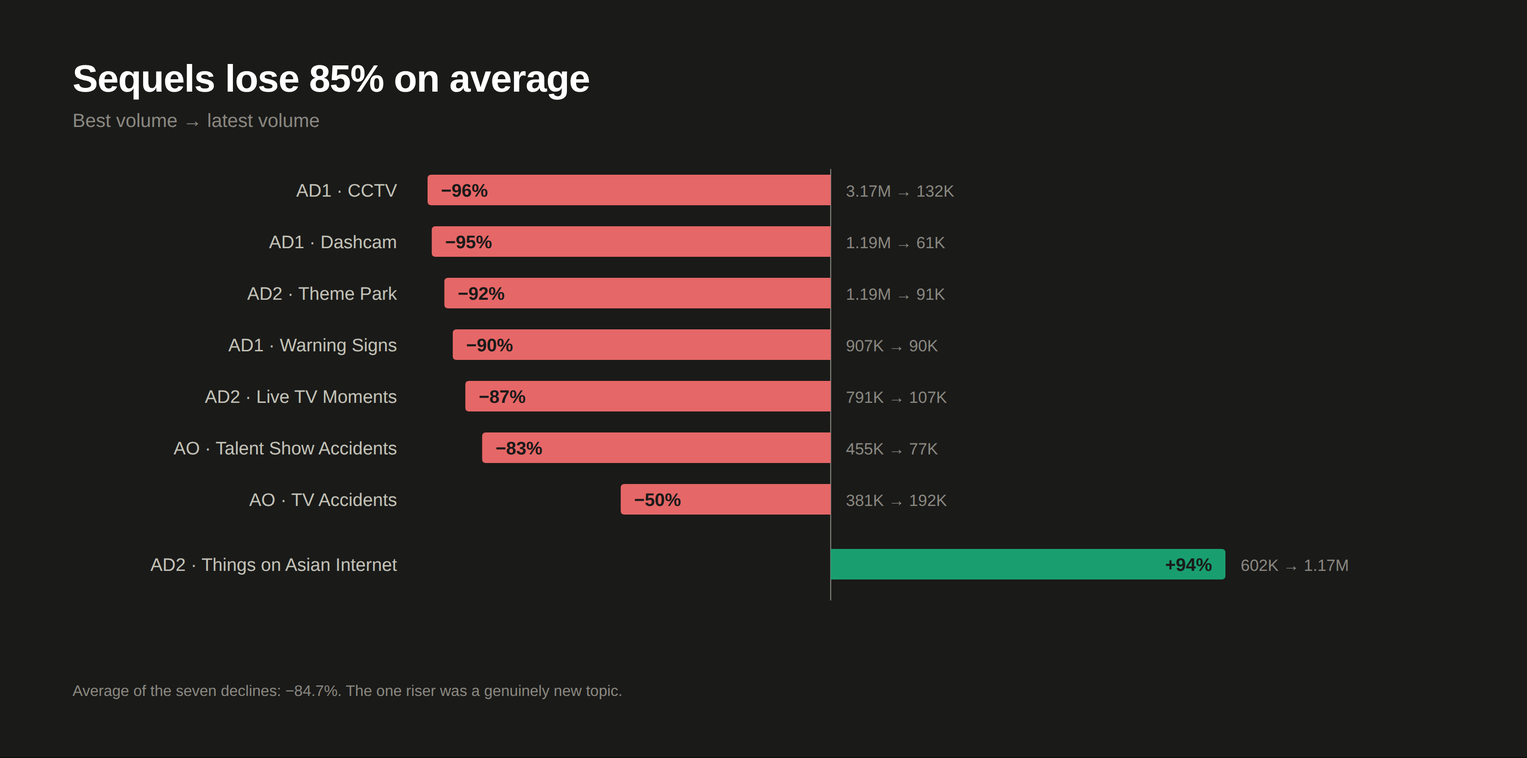
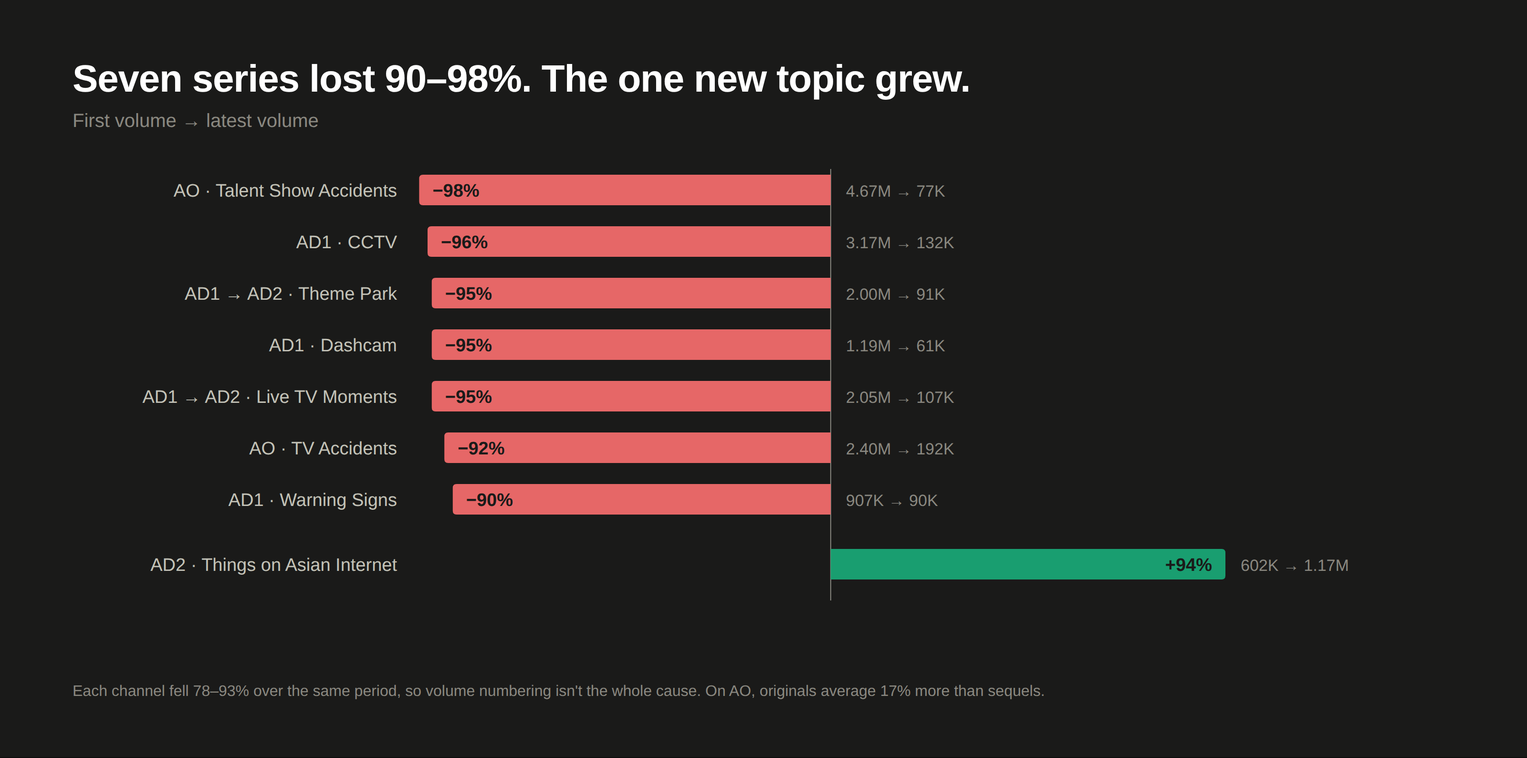
Final check: correct sequel decay, four case facts, two overclaims
Sequel decay was measured from Vol 2 for both AO series and from Vol 3
for the two AD2 series, while labelled "best volume". Measured from each
series' first volume, all seven fell 90-98%. Because that matches each
channel's own 78-93% fall, the script now presents it descriptively and
rests the volume-number recommendation on the new-topic exception
(+94%) and AO's 17% original premium.

Case facts: Paschel's convictions (aggravated kidnapping and domestic
assault, 18 years); McFarland's permit expired a year before his death,
not "the previous August"; Fiore was Jenkins's wife, not ex-wife; Rome
2018 charges include fraud but not manslaughter (no deaths).

Overclaims: India and Telegram are covered but not by million-view
videos; competitor channels average 2.6-3.2M, not "two to three
million"; softened three absolute statements.

The-ask chart no longer sets Abyssal's current per-video views against
competitors' channel averages. All corrections logged in section I of
fact-check-corrections.md.

Claude-Session: https://claude.ai/code/session_018EyFTS4bEJ4wZZDWFbNADY

diff --git a/visuals/_source.html b/visuals/_source.html
@@ -61,10 +61,10 @@ td.num{font-variant-numeric:tabular-nums}
 <div class="node" style="background:#3a2322;color:var(--red)">Fishing Encounters<small>65K VIEWS</small></div>
 </div></div>
 
-<div class="fig" id="sequel-decay"><h1>Sequels lose 85% on average</h1>
-<div class="sub">Best volume → latest volume</div>
+<div class="fig" id="sequel-decay"><h1>Seven series lost 90–98%. The one new topic grew.</h1>
+<div class="sub">First volume → latest volume</div>
 <div class="chart"><svg id="c-seq" width="1448" height="500"></svg></div>
-<div class="src">Average of the seven declines: −84.7%. The one riser was a genuinely new topic.</div></div>
+<div class="src">Each channel fell 78–93% over the same period, so volume numbering isn't the whole cause. On AO, originals average 17% more than sequels.</div></div>
 
 <div class="fig" id="the-eight-video-cliff"><h1>Seven uploads a month is the peak. Eight is the cliff.</h1>
 <div class="sub">2026, all three channels · average total views in a month, by uploads that month</div>
@@ -100,7 +100,7 @@ td.num{font-variant-numeric:tabular-nums}
 <tr><th style="width:5%">#</th><th style="width:47%">Change</th><th>Evidence</th></tr>
 <tr><td class="k">1</td><td class="k">Three-test filter at greenlight, in writing</td><td>All three recent flops fail it</td></tr>
 <tr><td class="k">2</td><td class="k">Cap at seven uploads per channel a month</td><td class="num">7 → 3.01M total · 8 → 1.09M</td></tr>
-<tr><td class="k">3</td><td class="k">Drop volume numbers, AD2 first</td><td>Sequels lose 85%</td></tr>
+<tr><td class="k">3</td><td class="k">Drop volume numbers, AD2 first</td><td>Only a new topic grew (+94%) · AO originals +17%</td></tr>
 <tr><td class="k">4</td><td class="k">Rotate three title frameworks</td><td>98% one formula · the exception did 407K</td></tr>
 <tr><td class="k" style="color:var(--aqua)">5</td><td class="k" style="color:var(--aqua)">End every segment on the document</td><td>The basis of all three pitches</td></tr>
 </table></div>
@@ -206,7 +206,7 @@ hbars('c-curio',[
 
 // sequels (diverging, one common scale)
 (function(){const svg=document.getElementById('c-seq'),LW=360,S=4.4,Z=LW+96*S+12,RH=54,BH=32;
- const d=[['AD1 · CCTV',-96,'3.17M → 132K'],['AD1 · Dashcam',-95,'1.19M → 61K'],['AD2 · Theme Park',-92,'1.19M → 91K'],['AD1 · Warning Signs',-90,'907K → 90K'],['AD2 · Live TV Moments',-87,'791K → 107K'],['AO · Talent Show Accidents',-83,'455K → 77K'],['AO · TV Accidents',-50,'381K → 192K'],['AD2 · Things on Asian Internet',94,'602K → 1.17M']];
+ const d=[['AO · Talent Show Accidents',-98,'4.67M → 77K'],['AD1 · CCTV',-96,'3.17M → 132K'],['AD1 → AD2 · Theme Park',-95,'2.00M → 91K'],['AD1 · Dashcam',-95,'1.19M → 61K'],['AD1 → AD2 · Live TV Moments',-95,'2.05M → 107K'],['AO · TV Accidents',-92,'2.40M → 192K'],['AD1 · Warning Signs',-90,'907K → 90K'],['AD2 · Things on Asian Internet',94,'602K → 1.17M']];
  svg.appendChild(el('line',{x1:Z,x2:Z,y1:-6,y2:d.length*RH+14,stroke:C.ink3}));
  d.forEach(([n,v,note],i)=>{const y=i*RH+(i===7?14:0),w=Math.abs(v)*S,lab=(v<0?'−':'+')+Math.abs(v)+'%';
   tx(svg,n,LW-20,y+BH/2+7,{'text-anchor':'end',fill:C.ink2,'font-size':19});
@@ -237,10 +237,10 @@ function vpanelC(id,title,rows,max,fmt){const svg=document.getElementById(id),B=
 
 // ask
 hbars('c-ask',[
- {n:'Abyssal Network (all three)',v:16.9,c:C.red,lab:'16.9 hrs',bold:1,note:'133–141K'},
+ {n:'Abyssal Network (all three)',v:16.9,c:C.red,lab:'16.9 hrs',bold:1},
  {n:'Chilling Scares',v:1.0,c:C.mute,lab:'1.0',note:'3.24M'},{n:'Nexpo',v:1.0,c:C.mute,lab:'1.0',note:'3.22M'},
  {n:'The Paint Explainer',v:0.94,c:C.mute,lab:'0.9',note:'1.88M'},{n:'Nick Crowley',v:0.81,c:C.mute,lab:'0.8',note:'2.59M'},{n:'SIRIUS',v:0.32,c:C.mute,lab:'0.3',note:'2.81M'}],17,{lw:340,w:720,rh:62,top:40,nx:1440});
-(function(){const s=document.getElementById('c-ask');tx(s,'AVG VIEWS / VIDEO',1440,20,{'text-anchor':'end',fill:C.ink3,'font-size':14,'font-weight':700,'letter-spacing':1.2});})();
+(function(){const s=document.getElementById('c-ask');tx(s,'CHANNEL AVG VIEWS / VIDEO',1440,20,{'text-anchor':'end',fill:C.ink3,'font-size':14,'font-weight':700,'letter-spacing':1.2});})();
 
 // AO rule
 hbars('c-ao',[
@@ -274,5 +274,5 @@ function ladder(id,rows){const box=document.getElementById(id);
   box.insertAdjacentHTML('beforeend',`<div class="lrow"><div class="chip" style="background:hsl(212 70% ${l}%);color:${i>=3?'#fff':'#0e0e0d'}">L${i+1}</div><div><div class="lvn">${r[0]}</div>${r[1]?`<div class="lvd">${r[1]}</div>`:''}</div><div class="cnt">${r[2]}</div></div>`);});}
 ladder('l-col',[['Cranes, scaffolding, facades','Spectacular footage, small tolls',6],['Bridges','Genoa Morandi — 43 dead · FIU footbridge — 6 dead',6],['Fell mid-construction','Onto the people building them',6],['Public venues','Hyatt Regency — 114 dead',6],['Occupied homes','Surfside — 98 dead',6],['Industrial','Rana Plaza — 1,134 dead',6],['Dams and tailings','Where the toll stops being countable',8]]);
 ladder('l-lift',[['Malfunctions, nobody hurt','',5],['Entrapments','Hours in a sealed box, on camera',6],['Injuries','Rome 2018 — 24 injured, 11 indicted',6],['Survivors','Santiago — 31 floors in 15 seconds, survived',6],['Single deaths','Samuel Waisbren · JauMarcus McFarland',6],['Several deaths, one failure','',6],['Mass casualty','Mottarone 2021 — 14 dead · Vaal Reefs 1995 — 104 dead',5]]);
-ladder('l-cast',[['Financial crime','Todd & Julie Chrisley — 12 and 7 years, pardoned 2025 · the Giudices',6],['Drugs and driving offences','',6],['Domestic violence','',6],['Violent crime','Geoffrey Paschel, 90 Day Fiancé',6],['Sexual offences','Stephen Bear',6],['Offences against children','Josh Duggar',6],['Murder','James Timothy Norman · Ryan Jenkins',6]]);
+ladder('l-cast',[['Financial crime','Todd & Julie Chrisley — 12 and 7 years, pardoned 2025 · the Giudices',6],['Drugs and driving offences','',6],['Domestic violence','',6],['Violent crime','Geoffrey Paschel, 90 Day Fiancé — 18 years, arrested before his season aired',6],['Sexual offences','Stephen Bear',6],['Offences against children','Josh Duggar',6],['Murder','James Timothy Norman · Ryan Jenkins',6]]);
 </script></body></html>

diff --git a/ABYSSAL-NETWORK-APPLICATION-FULL-EXPORT.md b/ABYSSAL-NETWORK-APPLICATION-FULL-EXPORT.md
@@ -442,7 +442,7 @@ picked up later from the same search results.
 ---
 
 ## NIA Production — Creative Strategist (Abyssal Network)
-### Loom script · 15.8 min at 150 wpm, 16.9 at 140 — plus pauses on visuals
+### Loom script · 16.2 min at 150 wpm, 17.3 at 140 — plus pauses on visuals
 
 *Speak it, don't read it. `[SLIDE: x.png]` cues the visual.*
 
@@ -515,15 +515,17 @@ The iceberg is worth protecting. **The runtime is what's being protected for the
 
 *[SLIDE: sequel-decay.png]*
 
-**Sequels.** Seven multi-volume series have dropped 50 to 96 percent from their best volume to
-their latest — **minus 85** on average. The one exception, *Things on Asian Internet*, went **up
-94 percent**, because the topic was new.
+**Sequels.** Seven multi-volume series have lost **90 to 98 percent** from their first volume to
+their latest. That's the same scale as the channels' own fall, so the number on the title isn't the
+whole story. The tell is the exception: *Things on Asian Internet*, a genuinely new topic, went **up
+94 percent** while everything around it fell. And on AO, originals average **17 percent** more than
+sequels.
 
 *[SLIDE: the-eight-video-cliff.png]*
 
 **Eight uploads a month.** In 2026, months at seven uploads averaged **3.01 million** total views —
-the best tier. At eight, **1.09 million**. Per video, 429,000 against 136,000. Twice a week is eight
-a month — exactly where it breaks.
+the best tier. At eight, **1.09 million**. Per video, 429,000 against 136,000. Twice a week is about
+eight a month — exactly where it breaks.
 
 *[SLIDE: convergence.png]*
 
@@ -533,7 +535,7 @@ a month — exactly where it breaks.
 *[SLIDE: the-ask.png]*
 
 **The ask.** Together the channels ask for about **seventeen hours** of viewing a month. The
-channels in this niche averaging two to three million views a video — Chilling Scares, Nexpo,
+channels in this niche averaging 2.6 to 3.2 million views a video — Chilling Scares, Nexpo,
 Nick Crowley — each ask for **an hour or less**. The million-view videos in this niche cluster around **28
 minutes**; AD averages **59**. Sixty percent of a 35-minute video is the same 21 minutes as
 thirty-five percent of a 60-minute one — but the shorter video gets the better retention score.
@@ -576,9 +578,9 @@ The repositioning is working. The recent half of the catalogue is **55 percent**
 from **28**, and volume numbering is down from **80 percent to 25**. But from the outside it still
 reads as the home for Vol. 3+.
 
-Its baseline is falling because it's downstream: it runs Volumes 3 to 5 of topics AD1 already
-spent, and sequels lose **85 percent**. The two series behind its **minus 78** — Theme Park at
-minus 92, Live TV at minus 87 — are both inherited. It also owns the non-English internet lane,
+Its baseline is falling because it's downstream: it runs later volumes of topics that already peaked
+on AD1. Theme Park and Live TV Moments each did about **two million** views on AD1; their latest
+volumes on AD2 did **91,000** and **107,000**. It also owns the non-English internet lane,
 which produced the only series in the network that grew — *Things on Asian Internet*, 602,000 to
 1.17 million — and it's underused.
 
@@ -623,7 +625,7 @@ One video, one channel, one month, against that channel's baseline.
 
 Of the five invariants, **forbidden or obscure** is the product — the other four are quality
 control on it. And topic novelty is close to gone: Kitchen Nightmares, child stars, India and
-Telegram all already have videos with millions of views. So these pitches apply one change to the
+Telegram are all covered already — the first two by videos with millions of views. So these pitches apply one change to the
 format rather than chase untouched subjects.
 
 ### The change: every segment ends on the paperwork
@@ -639,8 +641,8 @@ and there's one Mottarone, not six. So the document is the **signature of every 
 definition of the level.
 
 What it gets you: the surface can be familiar, because the depth is the report — and inquiry
-findings aren't on YouTube. The moral frame becomes structural. It escalates harder than a body
-count. A solo competitor can't copy it. And "the document we couldn't put on YouTube" is a stronger
+findings rarely make it onto YouTube. The moral frame becomes structural. It escalates harder than a body
+count. A solo channel can't easily copy it. And "the document we couldn't put on YouTube" is a stronger
 paid layer than "Level 8."
 
 It fits two channels, because they sit inside mandatory inspection regimes. AO doesn't, so it gets
@@ -652,8 +654,8 @@ a different answer.
 
 **The document: the engineering report.**
 
-AD's disaster lane has never covered structures that came down with people inside — and it's the
-most-filmed disaster category there is.
+AD's disaster lane has never covered structures that came down with people inside — and it's one of
+the most-filmed disaster categories there is.
 
 **Seven levels, about 44 cases, 55 minutes,** escalating on scale and on who was inside.
 
@@ -668,7 +670,7 @@ tailings, where the toll stops being countable.
 
 **Hook.** Forty seconds of security-camera footage of an apartment building at night, nothing
 happening. Then half of it drops. Cut to black. *"Nearly three years before this, an engineer wrote
-a report about this building. The repairs still hadn't started."*
+a report about this building. The structural repairs still hadn't started."*
 
 **Why it wins.** Every segment lands on the report, so the video has a repeating beat instead of
 reading as a list. A footage iceberg promises a clip you haven't seen; this promises the ceiling
@@ -693,11 +695,11 @@ and no two segments look alike.
 
 Level 1, malfunctions where nobody's hurt. Level 2, entrapments — hours in a sealed box, on camera.
 Level 3, injuries: **Rome, 2018** — an escalator accelerated under a crowd of CSKA Moscow fans, **24
-injured**, one man partially lost a foot, and **eleven people indicted in 2023** for manslaughter and
+injured**, one man partially lost a foot, and **eleven people indicted in 2023**, with charges including
 fraud. Level 4, survivors: in Santiago, **José Vergara Acevedo fell 31 floors in 15 seconds** and
 lived. Level 5, single deaths: **Samuel Waisbren, 30** — the door-zone restrictor was disabled, the
 building had been **fined $1,300 for exactly that**, and it was still unfixed. And **JauMarcus
-McFarland, 18** — the elevator's permit had expired the previous August. Level 6, several deaths in
+McFarland, 18** — the elevator's operating permit had expired a year earlier. Level 6, several deaths in
 one failure. Level 7, mass casualty: **Stresa–Mottarone, 2021** — the cable snapped and the emergency
 brake never engaged, because a clamp had been fitted to hold it open, routinely, to avoid downtime.
 **14 dead.** And **Vaal Reefs, 1995** — a locomotive fell down a mine shaft onto a crowded cage.
@@ -733,12 +735,12 @@ offence. Every case has broadcast footage.
 Level 1, financial crime: **Todd and Julie Chrisley** — sentenced to twelve and seven years for bank
 fraud and tax evasion, then pardoned in 2025 — and the Giudices. Level 2, drugs and driving offences.
 Level 3, domestic violence. Level 4, violent crime: **Geoffrey Paschel**, *90 Day Fiancé* —
-aggravated assault and kidnapping. Level 5, sexual offences: **Stephen Bear**, convicted of voyeurism
+18 years for aggravated kidnapping and domestic assault, arrested a year before his season aired. Level 5, sexual offences: **Stephen Bear**, convicted of voyeurism
 and sharing private sexual images. Level 6, offences against children: **Josh Duggar**. Level 7,
 murder: **James Timothy Norman**, *Welcome to Sweetie Pie's*, convicted in a federal murder-for-hire
 plot against his own nephew. And **Ryan Jenkins**, cast on VH1's *Megan Wants a Millionaire* — the background check came back clean,
 and missed his **2007 conviction in Canada for assaulting a girlfriend**. Months later he was wanted
-for the murder of his ex-wife. VH1 pulled the series.
+for the murder of his wife, Jasmine Fiore. VH1 pulled the series.
 
 **Hook.** A casting tape — someone bright and likeable, held a beat too long. *"The producers paid
 for a background check on this man. It came back clean. It had missed one thing — a conviction for
@@ -780,7 +782,7 @@ AD2 601,402 (Oct 25) → 133,382 = **−78%**
 **Topic collapse** Footage Caught on Camera 4.03M · CCTV 3.17M · Internet Mysteries 2.2M
 → Amazon Incidents 71K · Fishing Encounters 65K · Biblical Horrors 60K · Chinese Shows 54K
 
-**Sequels** 7 series, −50% to −96%, avg **−85%** · exception: Asian Internet **+94%** (602K→1.17M)
+**Sequels** (first vol → latest) CCTV 3.17M→132K −96% · Dashcam 1.19M→61K −95% · Theme Park 2.00M (AD1)→91K (AD2) −95% · Warning Signs 907K→90K −90% · Live TV 2.05M (AD1)→107K (AD2) −95% · Talent Show 4.67M→77K −98% · TV Accidents 2.40M→192K −92% · mean −94.5%. Confounded with channel decline (−78% to −93%) — don't claim numbering alone causes it. Exception: Asian Internet **+94%** (602K→1.17M). AO originals 399,453 vs sequels 340,193 = +17% (lifetime)
 
 **The 8-video cliff (2026 totals/month)** 6 → 2.07M · **7 → 3.01M** · **8 → 1.09M**
 per-video 7 → 429K · 8 → **136K** · premise doc: "about twice a week" = 8/month
@@ -823,6 +825,11 @@ Tadini) · Surfside — 98 dead, Morabito report Oct 2018 → collapse 24 Jun 20
 **Chrisleys** — convicted 2022, 12 and 7 years; **pardoned by Trump 27–28 May 2025**, released same week
 
 **Monthly viewing ask** (avg duration × uploads/month, 30.44-day month) Abyssal 18.5 × 54.8 min = **16.9 hrs** · Chilling Scares 22 min every 11.2 days = **1.0** · Nexpo 49 min / 25 days = **1.0** · Paint Explainer 13 min / 7 days = **0.9** · Nick Crowley 32 min / 20 days = **0.8** · SIRIUS 49 min / 77 days = **0.3**
+
+**Paschel** — Knox County, convicted Oct 2021: aggravated kidnapping, domestic assault, interfering with an emergency call; 18 years. Incident 9 Jun 2019; appeared on *Before the 90 Days* 2020
+**McFarland** — died 31 Aug 2021, 444 Suites, Atlanta; operating permit expired Aug 2020 (last inspected Aug 2019); owner fined $5,000
+**Jenkins / Fiore** — married Mar 2009; claimed annulment never found in records — police treated them as married
+**Rome 2018** — Repubblica station, 23 Oct 2018, 24 injured; 11 indicted 2023, charges incl. fraud (no deaths — don't say manslaughter)
 
 ---
 ---

diff --git a/presentation-script.md b/presentation-script.md
@@ -1,5 +1,5 @@
 # NIA Production — Creative Strategist (Abyssal Network)
-## Loom script · 15.8 min at 150 wpm, 16.9 at 140 — plus pauses on visuals
+## Loom script · 16.2 min at 150 wpm, 17.3 at 140 — plus pauses on visuals
 
 *Speak it, don't read it. `[SLIDE: x.png]` cues the visual.*
 
@@ -72,15 +72,17 @@ The iceberg is worth protecting. **The runtime is what's being protected for the
 
 *[SLIDE: sequel-decay.png]*
 
-**Sequels.** Seven multi-volume series have dropped 50 to 96 percent from their best volume to
-their latest — **minus 85** on average. The one exception, *Things on Asian Internet*, went **up
-94 percent**, because the topic was new.
+**Sequels.** Seven multi-volume series have lost **90 to 98 percent** from their first volume to
+their latest. That's the same scale as the channels' own fall, so the number on the title isn't the
+whole story. The tell is the exception: *Things on Asian Internet*, a genuinely new topic, went **up
+94 percent** while everything around it fell. And on AO, originals average **17 percent** more than
+sequels.
 
 *[SLIDE: the-eight-video-cliff.png]*
 
 **Eight uploads a month.** In 2026, months at seven uploads averaged **3.01 million** total views —
-the best tier. At eight, **1.09 million**. Per video, 429,000 against 136,000. Twice a week is eight
-a month — exactly where it breaks.
+the best tier. At eight, **1.09 million**. Per video, 429,000 against 136,000. Twice a week is about
+eight a month — exactly where it breaks.
 
 *[SLIDE: convergence.png]*
 
@@ -90,7 +92,7 @@ a month — exactly where it breaks.
 *[SLIDE: the-ask.png]*
 
 **The ask.** Together the channels ask for about **seventeen hours** of viewing a month. The
-channels in this niche averaging two to three million views a video — Chilling Scares, Nexpo,
+channels in this niche averaging 2.6 to 3.2 million views a video — Chilling Scares, Nexpo,
 Nick Crowley — each ask for **an hour or less**. The million-view videos in this niche cluster around **28
 minutes**; AD averages **59**. Sixty percent of a 35-minute video is the same 21 minutes as
 thirty-five percent of a 60-minute one — but the shorter video gets the better retention score.
@@ -133,9 +135,9 @@ The repositioning is working. The recent half of the catalogue is **55 percent**
 from **28**, and volume numbering is down from **80 percent to 25**. But from the outside it still
 reads as the home for Vol. 3+.
 
-Its baseline is falling because it's downstream: it runs Volumes 3 to 5 of topics AD1 already
-spent, and sequels lose **85 percent**. The two series behind its **minus 78** — Theme Park at
-minus 92, Live TV at minus 87 — are both inherited. It also owns the non-English internet lane,
+Its baseline is falling because it's downstream: it runs later volumes of topics that already peaked
+on AD1. Theme Park and Live TV Moments each did about **two million** views on AD1; their latest
+volumes on AD2 did **91,000** and **107,000**. It also owns the non-English internet lane,
 which produced the only series in the network that grew — *Things on Asian Internet*, 602,000 to
 1.17 million — and it's underused.
 
@@ -180,7 +182,7 @@ One video, one channel, one month, against that channel's baseline.
 
 Of the five invariants, **forbidden or obscure** is the product — the other four are quality
 control on it. And topic novelty is close to gone: Kitchen Nightmares, child stars, India and
-Telegram all already have videos with millions of views. So these pitches apply one change to the
+Telegram are all covered already — the first two by videos with millions of views. So these pitches apply one change to the
 format rather than chase untouched subjects.
 
 ## The change: every segment ends on the paperwork
@@ -196,8 +198,8 @@ and there's one Mottarone, not six. So the document is the **signature of every 
 definition of the level.
 
 What it gets you: the surface can be familiar, because the depth is the report — and inquiry
-findings aren't on YouTube. The moral frame becomes structural. It escalates harder than a body
-count. A solo competitor can't copy it. And "the document we couldn't put on YouTube" is a stronger
+findings rarely make it onto YouTube. The moral frame becomes structural. It escalates harder than a body
+count. A solo channel can't easily copy it. And "the document we couldn't put on YouTube" is a stronger
 paid layer than "Level 8."
 
 It fits two channels, because they sit inside mandatory inspection regimes. AO doesn't, so it gets
@@ -209,8 +211,8 @@ a different answer.
 
 **The document: the engineering report.**
 
-AD's disaster lane has never covered structures that came down with people inside — and it's the
-most-filmed disaster category there is.
+AD's disaster lane has never covered structures that came down with people inside — and it's one of
+the most-filmed disaster categories there is.
 
 **Seven levels, about 44 cases, 55 minutes,** escalating on scale and on who was inside.
 
@@ -225,7 +227,7 @@ tailings, where the toll stops being countable.
 
 **Hook.** Forty seconds of security-camera footage of an apartment building at night, nothing
 happening. Then half of it drops. Cut to black. *"Nearly three years before this, an engineer wrote
-a report about this building. The repairs still hadn't started."*
+a report about this building. The structural repairs still hadn't started."*
 
 **Why it wins.** Every segment lands on the report, so the video has a repeating beat instead of
 reading as a list. A footage iceberg promises a clip you haven't seen; this promises the ceiling
@@ -250,11 +252,11 @@ and no two segments look alike.
 
 Level 1, malfunctions where nobody's hurt. Level 2, entrapments — hours in a sealed box, on camera.
 Level 3, injuries: **Rome, 2018** — an escalator accelerated under a crowd of CSKA Moscow fans, **24
-injured**, one man partially lost a foot, and **eleven people indicted in 2023** for manslaughter and
+injured**, one man partially lost a foot, and **eleven people indicted in 2023**, with charges including
 fraud. Level 4, survivors: in Santiago, **José Vergara Acevedo fell 31 floors in 15 seconds** and
 lived. Level 5, single deaths: **Samuel Waisbren, 30** — the door-zone restrictor was disabled, the
 building had been **fined $1,300 for exactly that**, and it was still unfixed. And **JauMarcus
-McFarland, 18** — the elevator's permit had expired the previous August. Level 6, several deaths in
+McFarland, 18** — the elevator's operating permit had expired a year earlier. Level 6, several deaths in
 one failure. Level 7, mass casualty: **Stresa–Mottarone, 2021** — the cable snapped and the emergency
 brake never engaged, because a clamp had been fitted to hold it open, routinely, to avoid downtime.
 **14 dead.** And **Vaal Reefs, 1995** — a locomotive fell down a mine shaft onto a crowded cage.
@@ -290,12 +292,12 @@ offence. Every case has broadcast footage.
 Level 1, financial crime: **Todd and Julie Chrisley** — sentenced to twelve and seven years for bank
 fraud and tax evasion, then pardoned in 2025 — and the Giudices. Level 2, drugs and driving offences.
 Level 3, domestic violence. Level 4, violent crime: **Geoffrey Paschel**, *90 Day Fiancé* —
-aggravated assault and kidnapping. Level 5, sexual offences: **Stephen Bear**, convicted of voyeurism
+18 years for aggravated kidnapping and domestic assault, arrested a year before his season aired. Level 5, sexual offences: **Stephen Bear**, convicted of voyeurism
 and sharing private sexual images. Level 6, offences against children: **Josh Duggar**. Level 7,
 murder: **James Timothy Norman**, *Welcome to Sweetie Pie's*, convicted in a federal murder-for-hire
 plot against his own nephew. And **Ryan Jenkins**, cast on VH1's *Megan Wants a Millionaire* — the background check came back clean,
 and missed his **2007 conviction in Canada for assaulting a girlfriend**. Months later he was wanted
-for the murder of his ex-wife. VH1 pulled the series.
+for the murder of his wife, Jasmine Fiore. VH1 pulled the series.
 
 **Hook.** A casting tape — someone bright and likeable, held a beat too long. *"The producers paid
 for a background check on this man. It came back clean. It had missed one thing — a conviction for
@@ -337,7 +339,7 @@ AD2 601,402 (Oct 25) → 133,382 = **−78%**
 **Topic collapse** Footage Caught on Camera 4.03M · CCTV 3.17M · Internet Mysteries 2.2M
 → Amazon Incidents 71K · Fishing Encounters 65K · Biblical Horrors 60K · Chinese Shows 54K
 
-**Sequels** 7 series, −50% to −96%, avg **−85%** · exception: Asian Internet **+94%** (602K→1.17M)
+**Sequels** (first vol → latest) CCTV 3.17M→132K −96% · Dashcam 1.19M→61K −95% · Theme Park 2.00M (AD1)→91K (AD2) −95% · Warning Signs 907K→90K −90% · Live TV 2.05M (AD1)→107K (AD2) −95% · Talent Show 4.67M→77K −98% · TV Accidents 2.40M→192K −92% · mean −94.5%. Confounded with channel decline (−78% to −93%) — don't claim numbering alone causes it. Exception: Asian Internet **+94%** (602K→1.17M). AO originals 399,453 vs sequels 340,193 = +17% (lifetime)
 
 **The 8-video cliff (2026 totals/month)** 6 → 2.07M · **7 → 3.01M** · **8 → 1.09M**
 per-video 7 → 429K · 8 → **136K** · premise doc: "about twice a week" = 8/month
@@ -380,3 +382,8 @@ Tadini) · Surfside — 98 dead, Morabito report Oct 2018 → collapse 24 Jun 20
 **Chrisleys** — convicted 2022, 12 and 7 years; **pardoned by Trump 27–28 May 2025**, released same week
 
 **Monthly viewing ask** (avg duration × uploads/month, 30.44-day month) Abyssal 18.5 × 54.8 min = **16.9 hrs** · Chilling Scares 22 min every 11.2 days = **1.0** · Nexpo 49 min / 25 days = **1.0** · Paint Explainer 13 min / 7 days = **0.9** · Nick Crowley 32 min / 20 days = **0.8** · SIRIUS 49 min / 77 days = **0.3**
+
+**Paschel** — Knox County, convicted Oct 2021: aggravated kidnapping, domestic assault, interfering with an emergency call; 18 years. Incident 9 Jun 2019; appeared on *Before the 90 Days* 2020
+**McFarland** — died 31 Aug 2021, 444 Suites, Atlanta; operating permit expired Aug 2020 (last inspected Aug 2019); owner fined $5,000
+**Jenkins / Fiore** — married Mar 2009; claimed annulment never found in records — police treated them as married
+**Rome 2018** — Repubblica station, 23 Oct 2018, 24 injured; 11 indicted 2023, charges incl. fraud (no deaths — don't say manslaughter)

diff --git a/fact-check-corrections.md b/fact-check-corrections.md
@@ -431,3 +431,23 @@ AD1 −93.2% · AO −89.9% · AD2 −77.8% · 2026 ≤5/mo 284,952 vs ≥7/mo 2
 2.05M · 8-tier 1,086,975 total / 135,872 per video · 7-tier 3,006,220 / 429,460 · sequel decay
 (96+95+92+90+87+83+50)/7 = **84.7 ≈ 85%** · named 777,580 ÷ generic 49,930 = **15.6×** ·
 321/328 = **97.9 ≈ 98%** · 18.5 uploads × 54.8 min = 1,014 min = **16.9 ≈ 17 hrs**
+
+---
+
+## I. Final pass (Sep 2026)
+
+| Claim | Was | Now | Source |
+|---|---|---|---|
+| Sequel decay | "−85% avg, best volume → latest" | 90–98% from **first** volume (mean −94.5%). AO series had used Vol 2 as baseline; Talent Show Vol 1 = 4,665,487, TV Accidents Vol 1 = 2,401,370; Theme Park and Live TV Vol 1 were on AD1 (2.00M, 2.05M). Presented as descriptive only — confounded with each channel's own 78–93% fall | abyssal-observer-analysis.md top-20; abyssal-detective-analysis.md top-20 |
+| Paschel | "aggravated assault and kidnapping" | aggravated kidnapping + domestic assault, 18 years (Oct 2021); incident Jun 2019, aired 2020 | ET Online, Court TV |
+| McFarland | permit "expired the previous August" | died 31 Aug 2021; permit expired Aug 2020 → "a year earlier" | 11Alive state report |
+| Jenkins / Fiore | "ex-wife" | wife — claimed annulment never found in records | TODAY/AP |
+| Jenkins | "arrested for murder"; check "already contained" conviction | never arrested; check reported no record and missed the Canadian conviction | Courthouse News |
+| Chrisleys | sentences only | + pardoned May 2025 | NPR, CNN |
+| Rome 2018 | "indicted for manslaughter and fraud" | "charges including fraud" — no deaths occurred | Wikipedia |
+| Novelty | India and Telegram "have videos with millions of views" | covered, but max 307K / 646K; only KN and child stars reach millions | stat sheet |
+| Competitor avg | "two to three million" | 2.6–3.2M (Chilling 3.24M, Nexpo 3.22M) | competitive-benchmarking-analysis.md |
+| Viewing ask | Chilling 1.1, GOHA 1.8 | Chilling 1.0 (22 min / 11.2 days); GOHA dropped (duration was one video's) | competitive-benchmarking-analysis.md |
+| Convergence | 138/127/110K (mixed sources) | Sep 2026: 138,757 / 141,082 / 133,382 | raw monthly data |
+| AO named-show avg | five shows listed for a six-show mean | Extreme Cheapskates (497,762) restored | full-chat-log.md |
+| Hooks | "nineteen months"; "every person… was killed" | "nearly three years" (Oct 2018 → Jun 2021); "every machine… had one too" | Surfside timeline; ladder levels 1–4 non-fatal |
